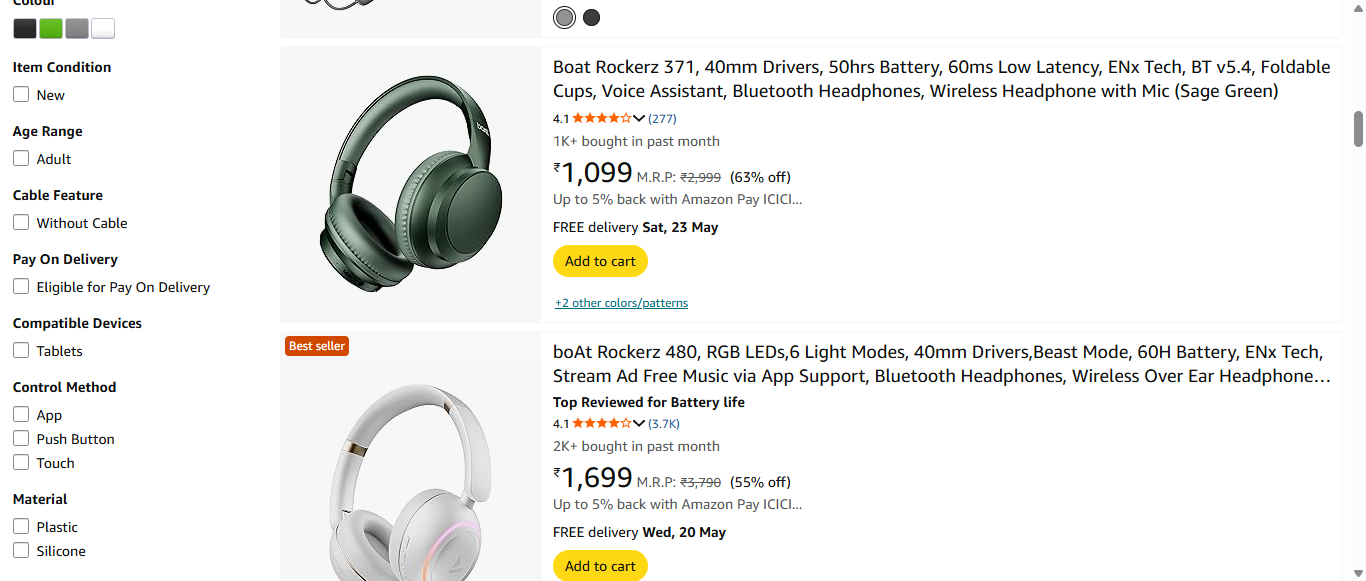
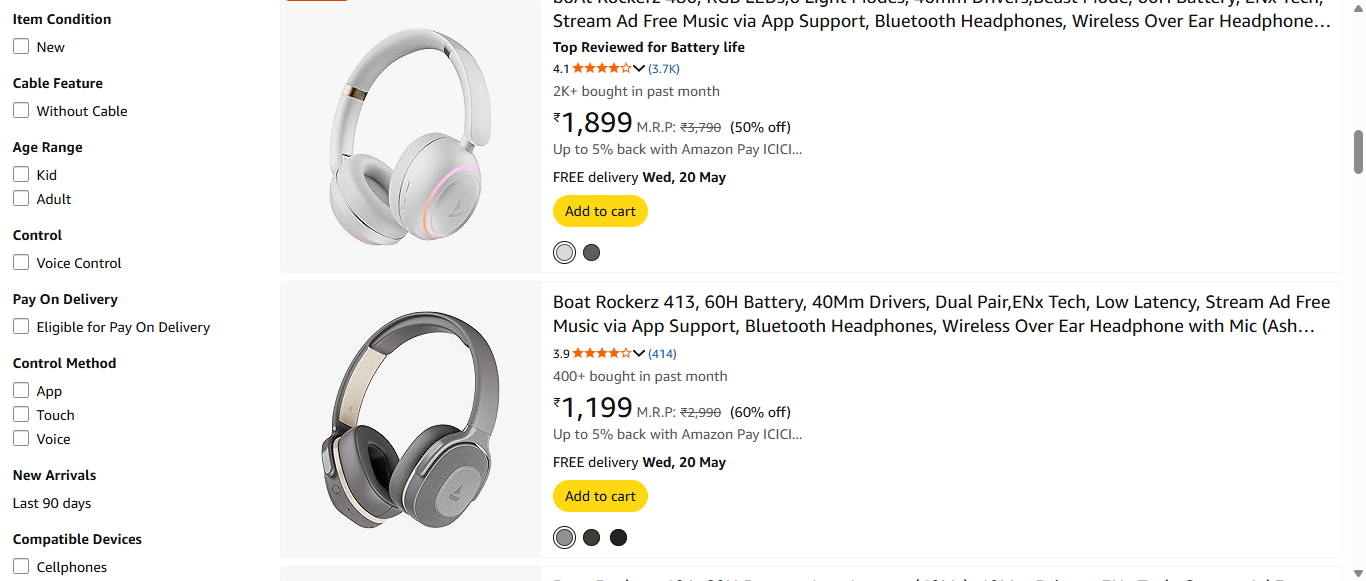
Update: Wait Code to Amazon Product Serach

diff --git a/Selenium_Code/src/WebDriver_Pack/AmazonFilter2.java b/Selenium_Code/src/WebDriver_Pack/AmazonFilter2.java
@@ -1,0 +1,101 @@
+package WebDriver_Pack;
+
+import java.io.File;
+import java.io.IOException;
+import java.time.Duration;
+
+import org.openqa.selenium.By;
+import org.openqa.selenium.JavascriptExecutor;
+import org.openqa.selenium.Keys;
+import org.openqa.selenium.OutputType;
+import org.openqa.selenium.TakesScreenshot;
+import org.openqa.selenium.WebDriver;
+import org.openqa.selenium.WebElement;
+import org.openqa.selenium.chrome.ChromeDriver;
+import org.openqa.selenium.io.FileHandler;
+import org.openqa.selenium.support.ui.ExpectedConditions;
+import org.openqa.selenium.support.ui.WebDriverWait;
+
+public class AmazonFilter2 {
+	public static void main(String[] args) throws InterruptedException, IOException {
+		WebDriver driver = new ChromeDriver();
+		WebDriverWait wait = new WebDriverWait(driver, Duration.ofSeconds(15));
+		
+		driver.get("https://www.amazon.in/");
+		driver.manage().window().maximize();
+			
+		WebElement search = wait.until(
+				ExpectedConditions.visibilityOfElementLocated(
+						By.xpath("/html/body/div[1]/header/div/div[1]/div[2]/div/form/div[2]/div[1]/input")));
+		search.click();
+		search.sendKeys("wireless headphones");
+		search.sendKeys(Keys.ENTER);
+
+		Thread.sleep(3000);
+		JavascriptExecutor js = (JavascriptExecutor)driver;
+		js.executeScript("window.scrollBy(0, 1500)");
+		
+		TakesScreenshot ss = (TakesScreenshot)driver;
+		File file = ss.getScreenshotAs(OutputType.FILE);
+		File save = new File("Amazon/NoFilter_Result.jpg");
+		FileHandler.copy(file,save);
+		
+		WebElement boat = wait.until(
+				ExpectedConditions.visibilityOfElementLocated(
+						By.xpath("//*[@id=\"p_123/214020\"]/span")));
+		boat.click();
+		
+//		WebElement jbl = driver.findElement(By.xpath("//*[@id=\"p_123/233043\"]/span/a"));
+//		jbl.click();
+//		WebElement noise = driver.findElement(By.xpath("//*[@id=\"p_123/42717\"]/span/a"));
+//		noise.click();
+		Thread.sleep(3000);
+		js.executeScript("window.scrollBy(0, 1500)");
+		TakesScreenshot ss2 = (TakesScreenshot)driver;
+		File file2 = ss2.getScreenshotAs(OutputType.FILE);
+		File save2 = new File("Amazon/BrandFilter_Result.jpg");
+		FileHandler.copy(file2,save2);
+		
+		
+		WebElement bluetooth = wait.until(
+				ExpectedConditions.visibilityOfElementLocated(
+						By.xpath("//*[@id=\"p_n_feature_six_browse-bin/212371788031\"]/span")));
+		bluetooth.click();
+
+		Thread.sleep(3000);
+		js.executeScript("window.scrollBy(0, 1500)");
+		TakesScreenshot ss3 = (TakesScreenshot)driver;
+		File file3 = ss3.getScreenshotAs(OutputType.FILE);
+		File save3 = new File("Amazon/TechnologyFilter_Result.jpg");
+		FileHandler.copy(file3,save3);
+		
+		
+		WebElement discount = wait.until(
+				ExpectedConditions.visibilityOfElementLocated(
+						By.xpath("//*[@id=\"p_n_pct-off-with-tax/27060457031\"]/span")));
+		discount.click();
+
+		Thread.sleep(3000);
+		js.executeScript("window.scrollBy(0, 1500)");
+		TakesScreenshot ss4 = (TakesScreenshot)driver;
+		File file4 = ss4.getScreenshotAs(OutputType.FILE);
+		File save4 = new File("Amazon/DiscountFilter_Result.jpg");
+		FileHandler.copy(file4,save4);
+		
+		WebElement colour = wait.until(
+				ExpectedConditions.elementToBeClickable(
+						By.xpath("/html/body/div[1]/div[1]/div[1]/div[2]/div/div[3]/span/div[1]/span/div/div[3]/div[12]/ul/span/span[1]/li")));
+		colour.click();
+		
+		Thread.sleep(3000);
+		js.executeScript("window.scrollBy(0, 300)");
+		TakesScreenshot ss5 = (TakesScreenshot)driver;
+		File file5 = ss5.getScreenshotAs(OutputType.FILE);
+		File save5 = new File("Amazon/ColourFilter_Result.jpg");
+		FileHandler.copy(file5,save5);
+		
+		Thread.sleep(4000);
+		driver.quit();
+		
+	}
+}
